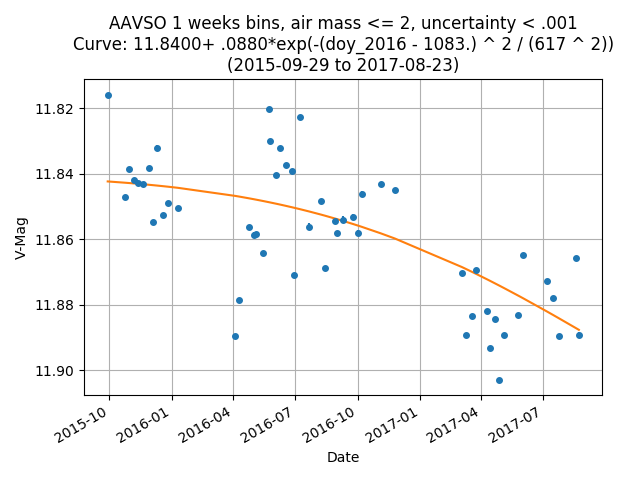
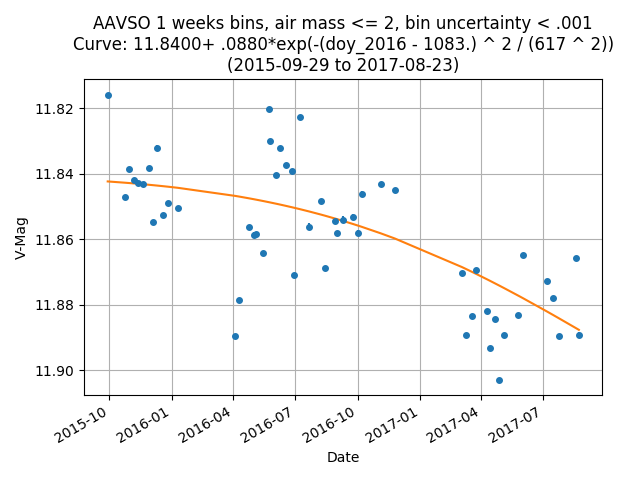
tweaked aavso long term dim plot header to make things a little bit more clear

Changed region(s): [[0.125, 0.0312, 0.9375, 0.0625]]

diff --git a/parse_aavso.py b/parse_aavso.py
@@ -12,7 +12,7 @@ def main():
     v_band = filter_by_band(parsed,"V")
     v_band = exclude_data(v_band,dip_jd_ranges)
     v_band_weekly_bins = get_bins(v_band,60*60*24*7,.001)
-    scatter_plot(v_band_weekly_bins,plot_name="aavso_vband_1_week_bins_scatter", plot_title="AAVSO 1 weeks bins, air mass <= 2, uncertainty < .001",marker_size=16)
+    scatter_plot(v_band_weekly_bins,plot_name="aavso_vband_1_week_bins_scatter", plot_title="AAVSO 1 weeks bins, air mass <= 2, bin uncertainty < .001",marker_size=16)
     write_csv(header+v_band_weekly_bins,"aavso_vband_data_good_air_weekly_bins_dips_excluded")
 
     #print(v_band_daily_bins)
